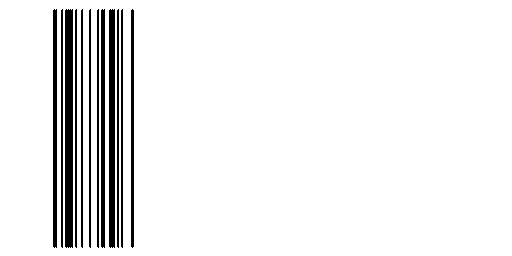
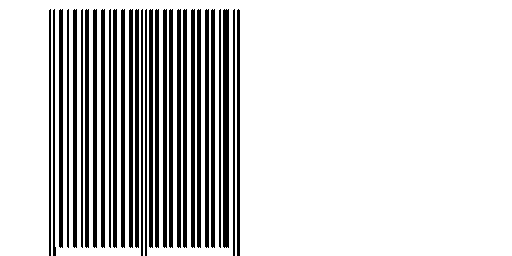
feat: ean print

Changed region(s): [[0.0938, 0.0312, 0.4688, 1.0]]

diff --git a/src/__main__.py b/src/__main__.py
@@ -95,7 +95,7 @@ CODING_SETS = {
 }
 
 
-def calc_crc(number: list[str]) -> int:
+def calc_crc(number: list[str]) -> str:
     S = 0
 
     for index, num in enumerate(number):
@@ -105,7 +105,7 @@ def calc_crc(number: list[str]) -> int:
             S += int(num)
 
     c = 10 - (S % 10)
-    return c
+    return str(c)
 
 
 def split_into_digits(text_code: str) -> list[str]:
@@ -123,7 +123,15 @@ def draw_ean_barcode(digits: list[str], img: Any) -> None:
 
     offset = 50
 
+    cv.line(img, Point(offset, 10).to_tuple(), Point(offset, IMG_HEIGHT_PX).to_tuple(), BLACK, MODULE_WIDTH_PX)
+    offset += MODULE_WIDTH_PX
+    cv.line(img, Point(offset, 10).to_tuple(), Point(offset, IMG_HEIGHT_PX).to_tuple(), WHITE, MODULE_WIDTH_PX)
+    offset += MODULE_WIDTH_PX
+    cv.line(img, Point(offset, 10).to_tuple(), Point(offset, IMG_HEIGHT_PX).to_tuple(), BLACK, MODULE_WIDTH_PX)
+    offset += MODULE_WIDTH_PX
+
     for index, dgt in enumerate(digits[1:7]):
+        print(dgt)
         for module in coding_set[index][dgt]:
             color = WHITE
             if module:
@@ -138,6 +146,42 @@ def draw_ean_barcode(digits: list[str], img: Any) -> None:
             )
             offset += MODULE_WIDTH_PX
 
+    cv.line(img, Point(offset, 10).to_tuple(), Point(offset, IMG_HEIGHT_PX).to_tuple(), WHITE, MODULE_WIDTH_PX)
+    offset += MODULE_WIDTH_PX
+    cv.line(img, Point(offset, 10).to_tuple(), Point(offset, IMG_HEIGHT_PX).to_tuple(), BLACK, MODULE_WIDTH_PX)
+    offset += MODULE_WIDTH_PX
+    cv.line(img, Point(offset, 10).to_tuple(), Point(offset, IMG_HEIGHT_PX).to_tuple(), WHITE, MODULE_WIDTH_PX)
+    offset += MODULE_WIDTH_PX
+    cv.line(img, Point(offset, 10).to_tuple(), Point(offset, IMG_HEIGHT_PX).to_tuple(), BLACK, MODULE_WIDTH_PX)
+    offset += MODULE_WIDTH_PX
+    cv.line(img, Point(offset, 10).to_tuple(), Point(offset, IMG_HEIGHT_PX).to_tuple(), WHITE, MODULE_WIDTH_PX)
+    offset += MODULE_WIDTH_PX
+
+    digits.append(calc_crc(digits))
+
+    print(" ")
+
+    for dgt in digits[7:]:
+        print(dgt)
+        for module in C[dgt]:
+            color = WHITE
+            if module:
+                color = BLACK
+            
+            cv.line(
+                img,
+                Point(offset, 10).to_tuple(),
+                Point(offset, IMG_HEIGHT_PX - 10).to_tuple(),
+                color,
+                MODULE_WIDTH_PX,
+            )
+            offset += MODULE_WIDTH_PX
+
+    cv.line(img, Point(offset, 10).to_tuple(), Point(offset, IMG_HEIGHT_PX).to_tuple(), BLACK, MODULE_WIDTH_PX)
+    offset += MODULE_WIDTH_PX
+    cv.line(img, Point(offset, 10).to_tuple(), Point(offset, IMG_HEIGHT_PX).to_tuple(), WHITE, MODULE_WIDTH_PX)
+    offset += MODULE_WIDTH_PX
+    cv.line(img, Point(offset, 10).to_tuple(), Point(offset, IMG_HEIGHT_PX).to_tuple(), BLACK, MODULE_WIDTH_PX)
 
 # Create a white image
 img = np.zeros((IMG_HEIGHT_PX, IMG_WIDTH_PX, 3), np.uint8)
